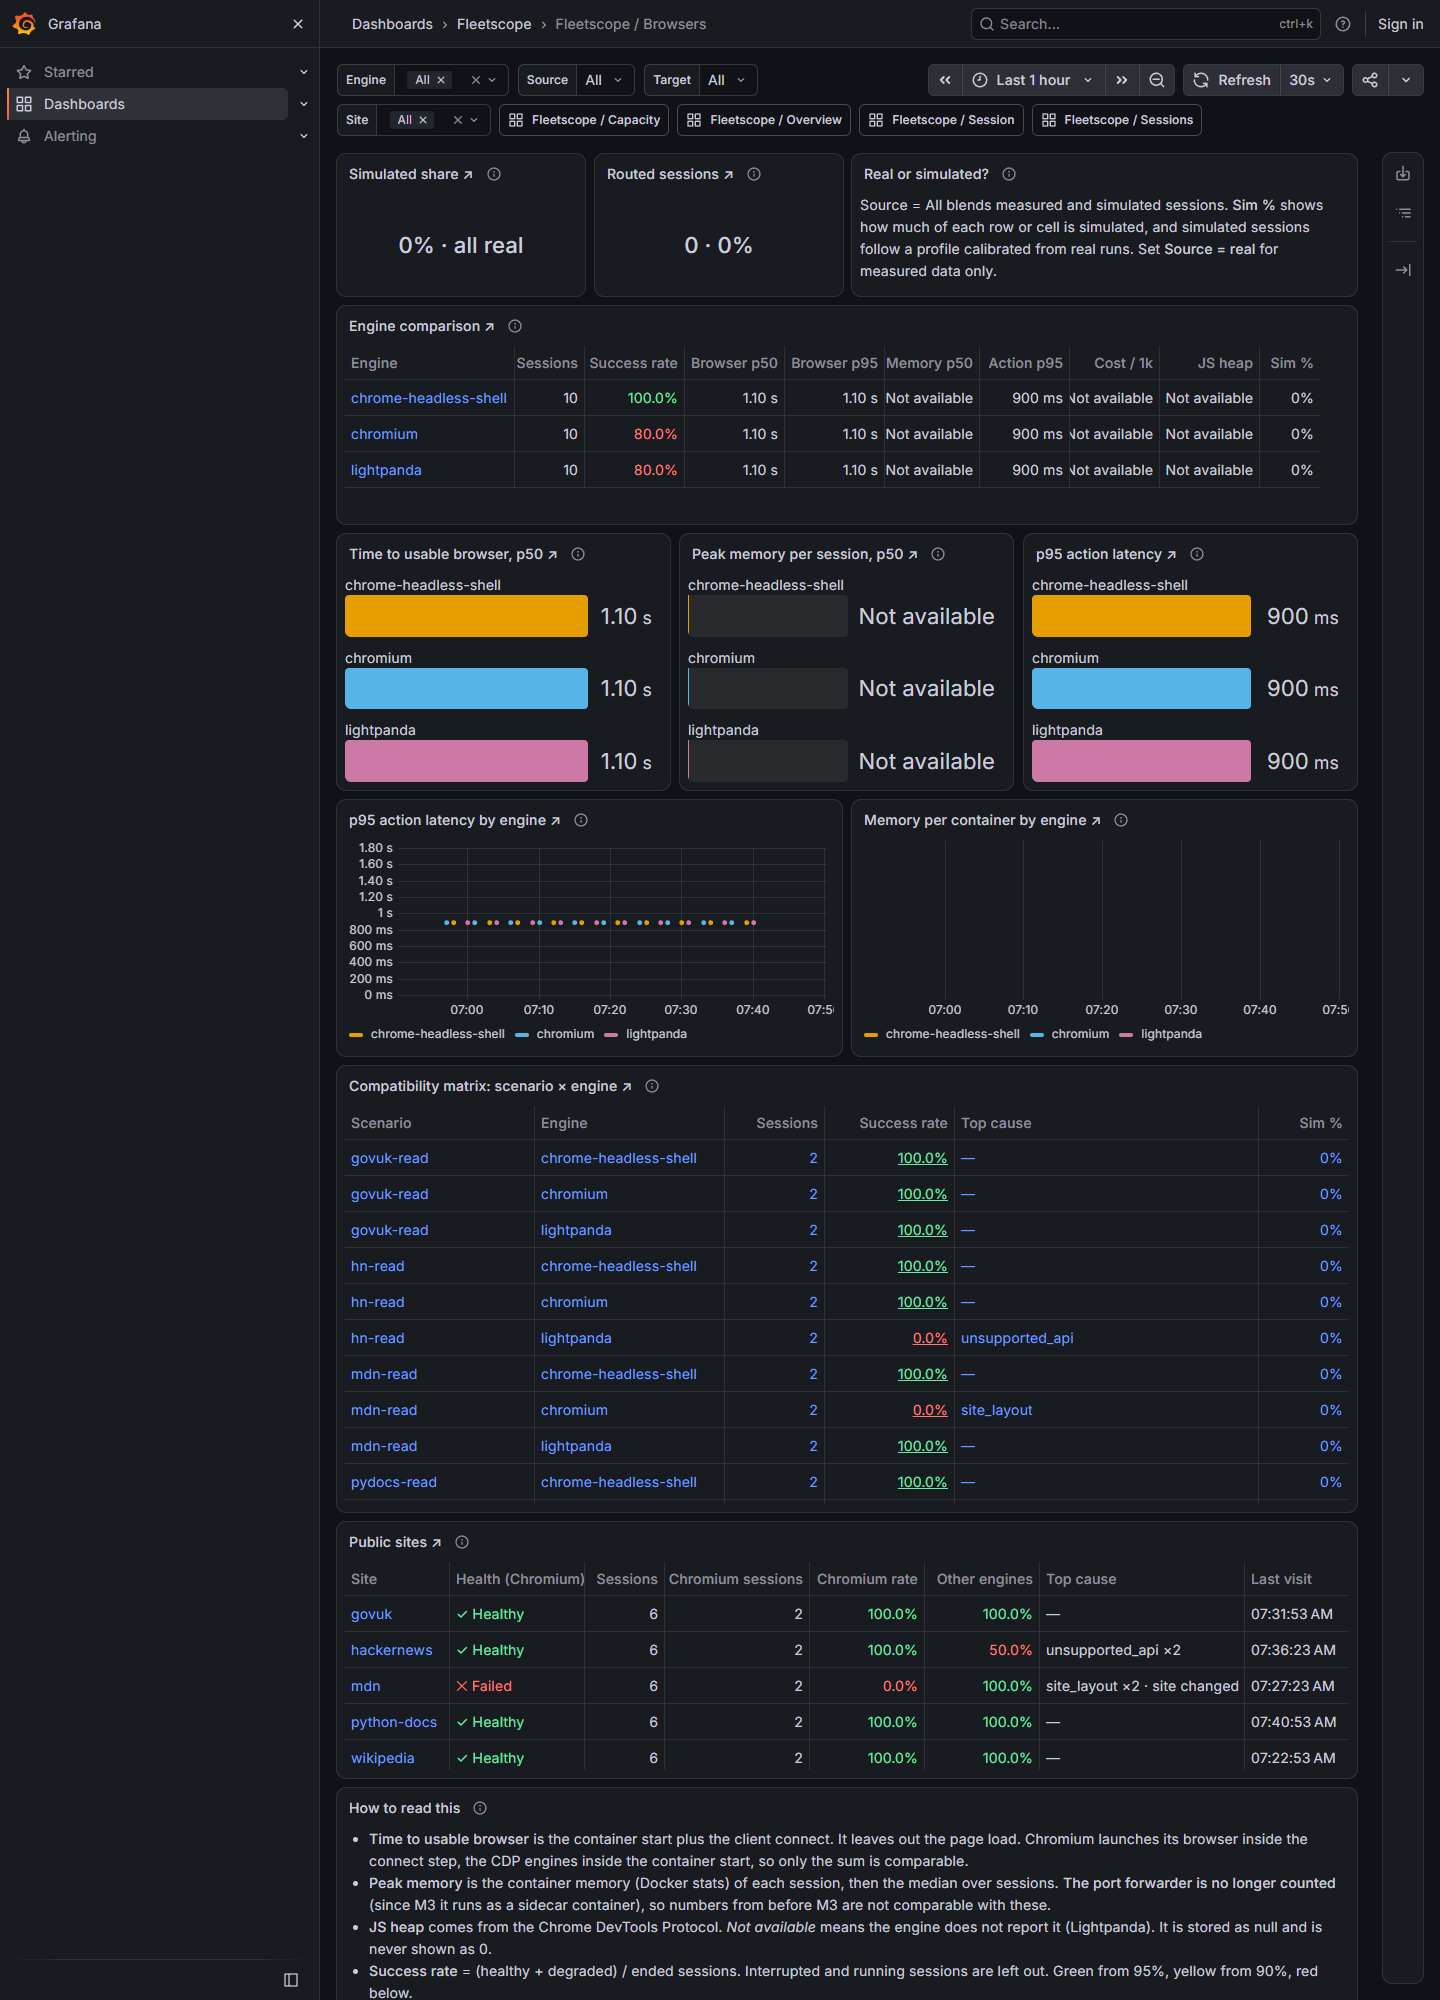
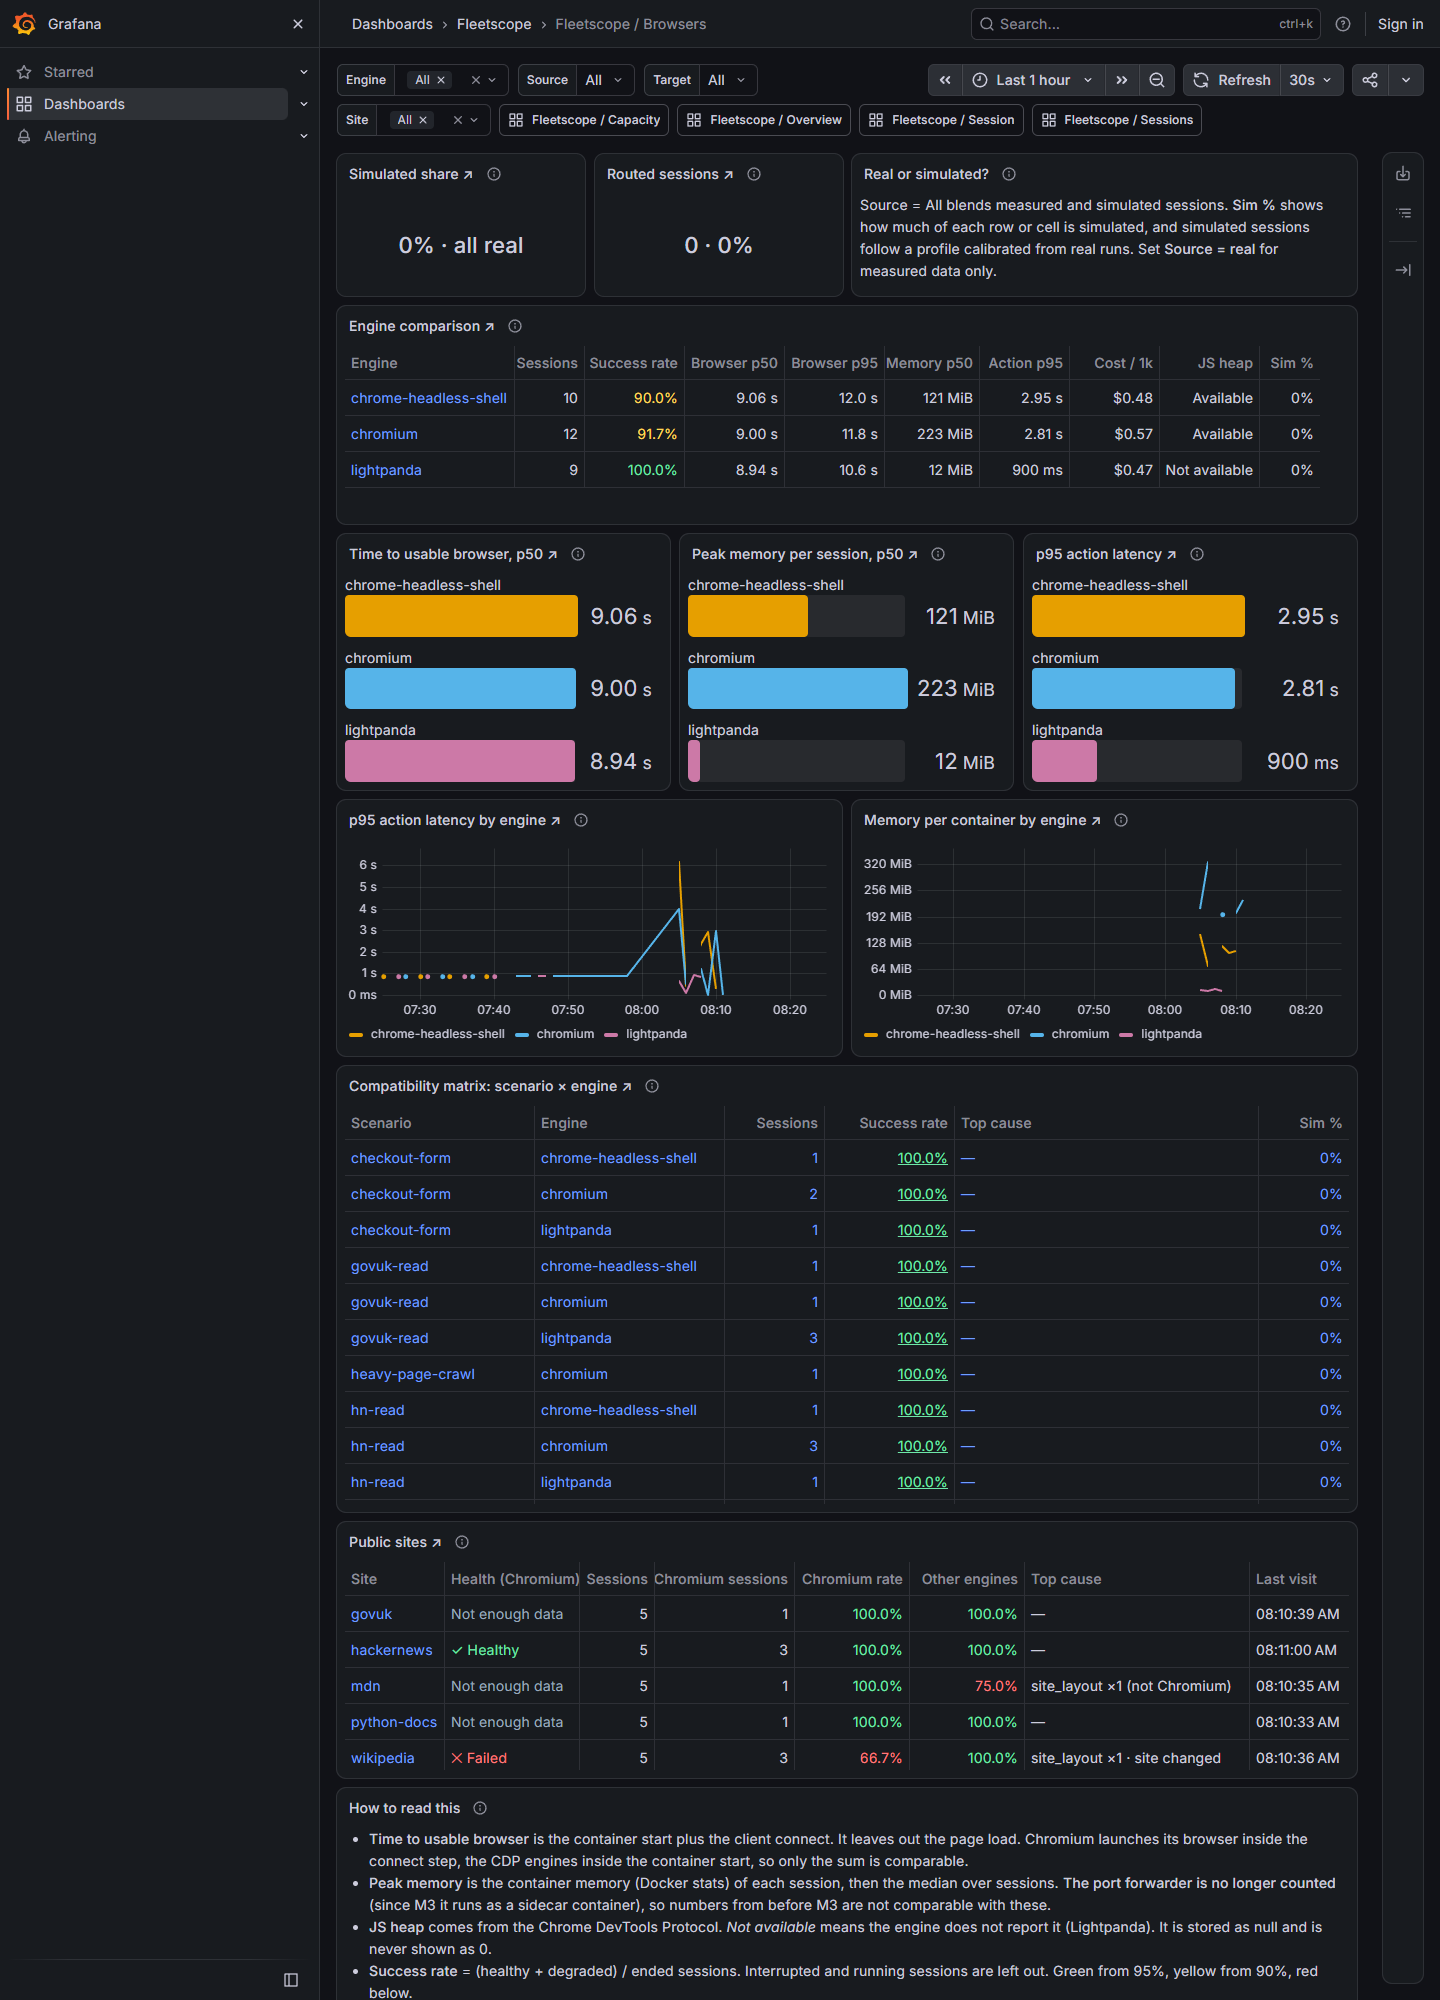
fix(grafana): Public sites link, Top cause and Health honesty (RV-PS-02, RV-PS-03, N5)
The drill-down link no longer repeats target and site queryparams; site_layout reads 'site changed'
only when Chromium has it, else '(not Chromium)'; Health is Blocked when most Chromium sessions were
blocked (blocked, http_403, http_429, captcha) and 'Not enough data' below 3 Chromium sessions.

diff --git a/design/DESIGN.md b/design/DESIGN.md
@@ -241,7 +241,7 @@ Is ClickHouse keeping up with the fleet, and how close is it to its limits? Rang
 Range `now-1h`, refresh `30s`, variables `engine`, `source`, `target` and `site`. Engine comparison, the three bar gauges, two engine charts, the compatibility matrix and "How to read this" follow the rules above. Added for public sites (ADR 0007):
 
 - **Compatibility matrix:** one row per scenario and engine, so the public scenarios (`wiki-read`, `mdn-read`, `govuk-read`, `hn-read`, `pydocs-read`) appear as rows once they have run in the range; Target separates them from the demo scenarios.
-- **Public sites ↗** (Table, 24×7, under the matrix): one row per public site (always `target = public`; Target = Demo site gives "No public-site sessions ended in this range"), from the sessions that ended in the range (interrupted left out). Columns: Site (link to Sessions with `var-target=public&var-site=<site>`) · Health (Chromium) (the Chromium success rate through the thresholds, with the Status mapping: ✓ Healthy, ▲ Degraded, ✕ Failed, `—` with no Chromium session) · Sessions (all engines) · Chromium sessions · Chromium rate · Other engines (success rate of the other two engines; `—` when none ran) · Top cause (all engines, e.g. `unsupported_api ×2`; `site_layout` reads `site_layout ×2 · site changed`) · Last visit. Chromium is the site-health signal: a site that fails for Chromium has changed or blocks us, while a failure only on the CDP engines points at the engine.
+- **Public sites ↗** (Table, 24×7, under the matrix): one row per public site (always `target = public`; Target = Demo site gives "No public-site sessions ended in this range"), from the sessions that ended in the range (interrupted left out). Columns: Site (link to Sessions with `var-target=public&var-site=<site>`, and without the `target` and `site` queryparams it overrides) · Health (Chromium) (the Chromium success rate through the thresholds, with the Status mapping: ✓ Healthy, ▲ Degraded, ✕ Failed; ⊘ Blocked when most Chromium sessions were `blocked` or had the cause `http_403`, `http_429` or `captcha`; `Not enough data` in `#9AA9BB` below 3 Chromium sessions in range) · Sessions (all engines) · Chromium sessions · Chromium rate · Other engines (success rate of the other two engines; `—` when none ran) · Top cause (all engines, e.g. `unsupported_api ×2`; `site_layout` reads `site_layout ×2 · site changed` only when Chromium itself has it, otherwise `site_layout ×2 (not Chromium)`, because then it is likely an engine gap) · Last visit. Chromium is the site-health signal: a site that fails for Chromium has changed or blocks us, while a failure only on the CDP engines points at the engine.
 - **How to read this** gets the line: "Target = public: real sites, read-only, each browser with its own fingerprint (ADR 0007). `site_layout` means the site changed, not the browser."
 
 **Rollup panels and Target / Site.** `fleet_minute` has no `target` or `site` column. The panels that read it (p95 action latency, Actions per minute, Memory per container, and the p95 and CPU columns of By engine and Engine comparison) therefore show data only when Target = All and Site = All, through `$__conditionalAll(1 = 0, $target)` and `$__conditionalAll(1 = 0, $site)`; with a filter they show `—` or their No value text, and their descriptions say why. They never show unfiltered numbers under a filter.
